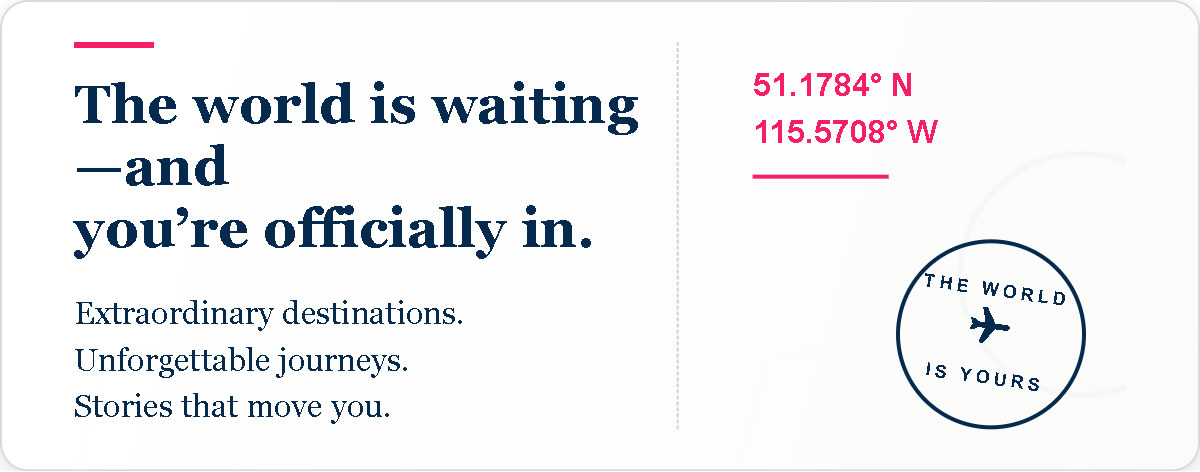
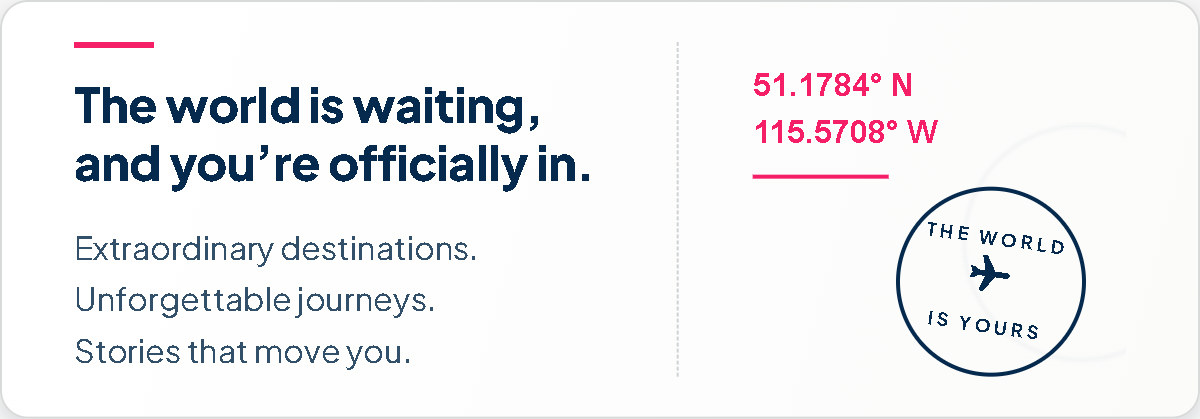
good

diff --git a/index.html b/index.html
@@ -62,7 +62,7 @@
 <tr>
 <td align="center" style="padding:20px 10px;">
 
-  <table role="presentation" width="600" cellpadding="0" cellspacing="0" border="0" style="width:100%; max-width:600px; font-family:Georgia,'Times New Roman',serif;">
+  <table role="presentation" width="600" cellpadding="0" cellspacing="0" border="0" style="width:100%; max-width:600px; font-family:'Plus Jakarta Sans',Arial,Helvetica,sans-serif;">
 
     <!-- ══ HERO ════════════════════════════════════════════════════════ -->
     <tr>
@@ -188,7 +188,7 @@
       <td align="center" style="padding:10px 16px 8px;">
         <!-- non-breaking spaces inside each sentence: one line on desktop, and
              on a phone it can only break between the two sentences -->
-        <p style="margin:0; font-family:Georgia,'Times New Roman',serif; font-size:17px; line-height:1.5; color:#062a4d; text-align:center;">
+        <p style="margin:0; font-family:'Plus Jakarta Sans',Arial,Helvetica,sans-serif; font-size:17px; line-height:1.5; color:#062a4d; text-align:center;">
           Every&nbsp;destination&nbsp;has&nbsp;a&nbsp;story. Every&nbsp;journey&nbsp;creates&nbsp;one.
         </p>
       </td>

diff --git a/README.md b/README.md
@@ -59,6 +59,32 @@ be exported again:
 
 ---
 
+## Fonts — trvler.co's own
+
+The original package used Georgia and Arial Narrow. Everything now uses the
+site's real typefaces:
+
+| Where | Font |
+|---|---|
+| Ticket labels (TRAVEL UPDATES, VIDEOS, SHORTS, EXCLUSIVE STORIES), the 01-04 numerals, YOUR JOURNEY STARTS HERE | **56th Street** — the site's display face, loaded from `app/assets/fonts/56thStreet-Regular.otf` |
+| Headings, paragraphs, coordinates, stamps, footer | **Plus Jakarta Sans** — the site's body face |
+
+Email clients cannot load custom fonts as live text. It works here because
+these sections ship as **images**, so the real brand fonts are baked into the
+artwork. The handful of live text lines name Plus Jakarta Sans first and fall
+back to Arial.
+
+## Text alignment
+
+`The world is waiting—and<br>you're officially in.` had a hard line break that
+stranded **"—and"** alone on the second line. The break and the dash are gone:
+
+> The world is waiting, and you're officially in.
+
+It now sets as two balanced lines on a laptop and on a phone.
+
+---
+
 ## Where every link goes
 
 | Section | Link |
